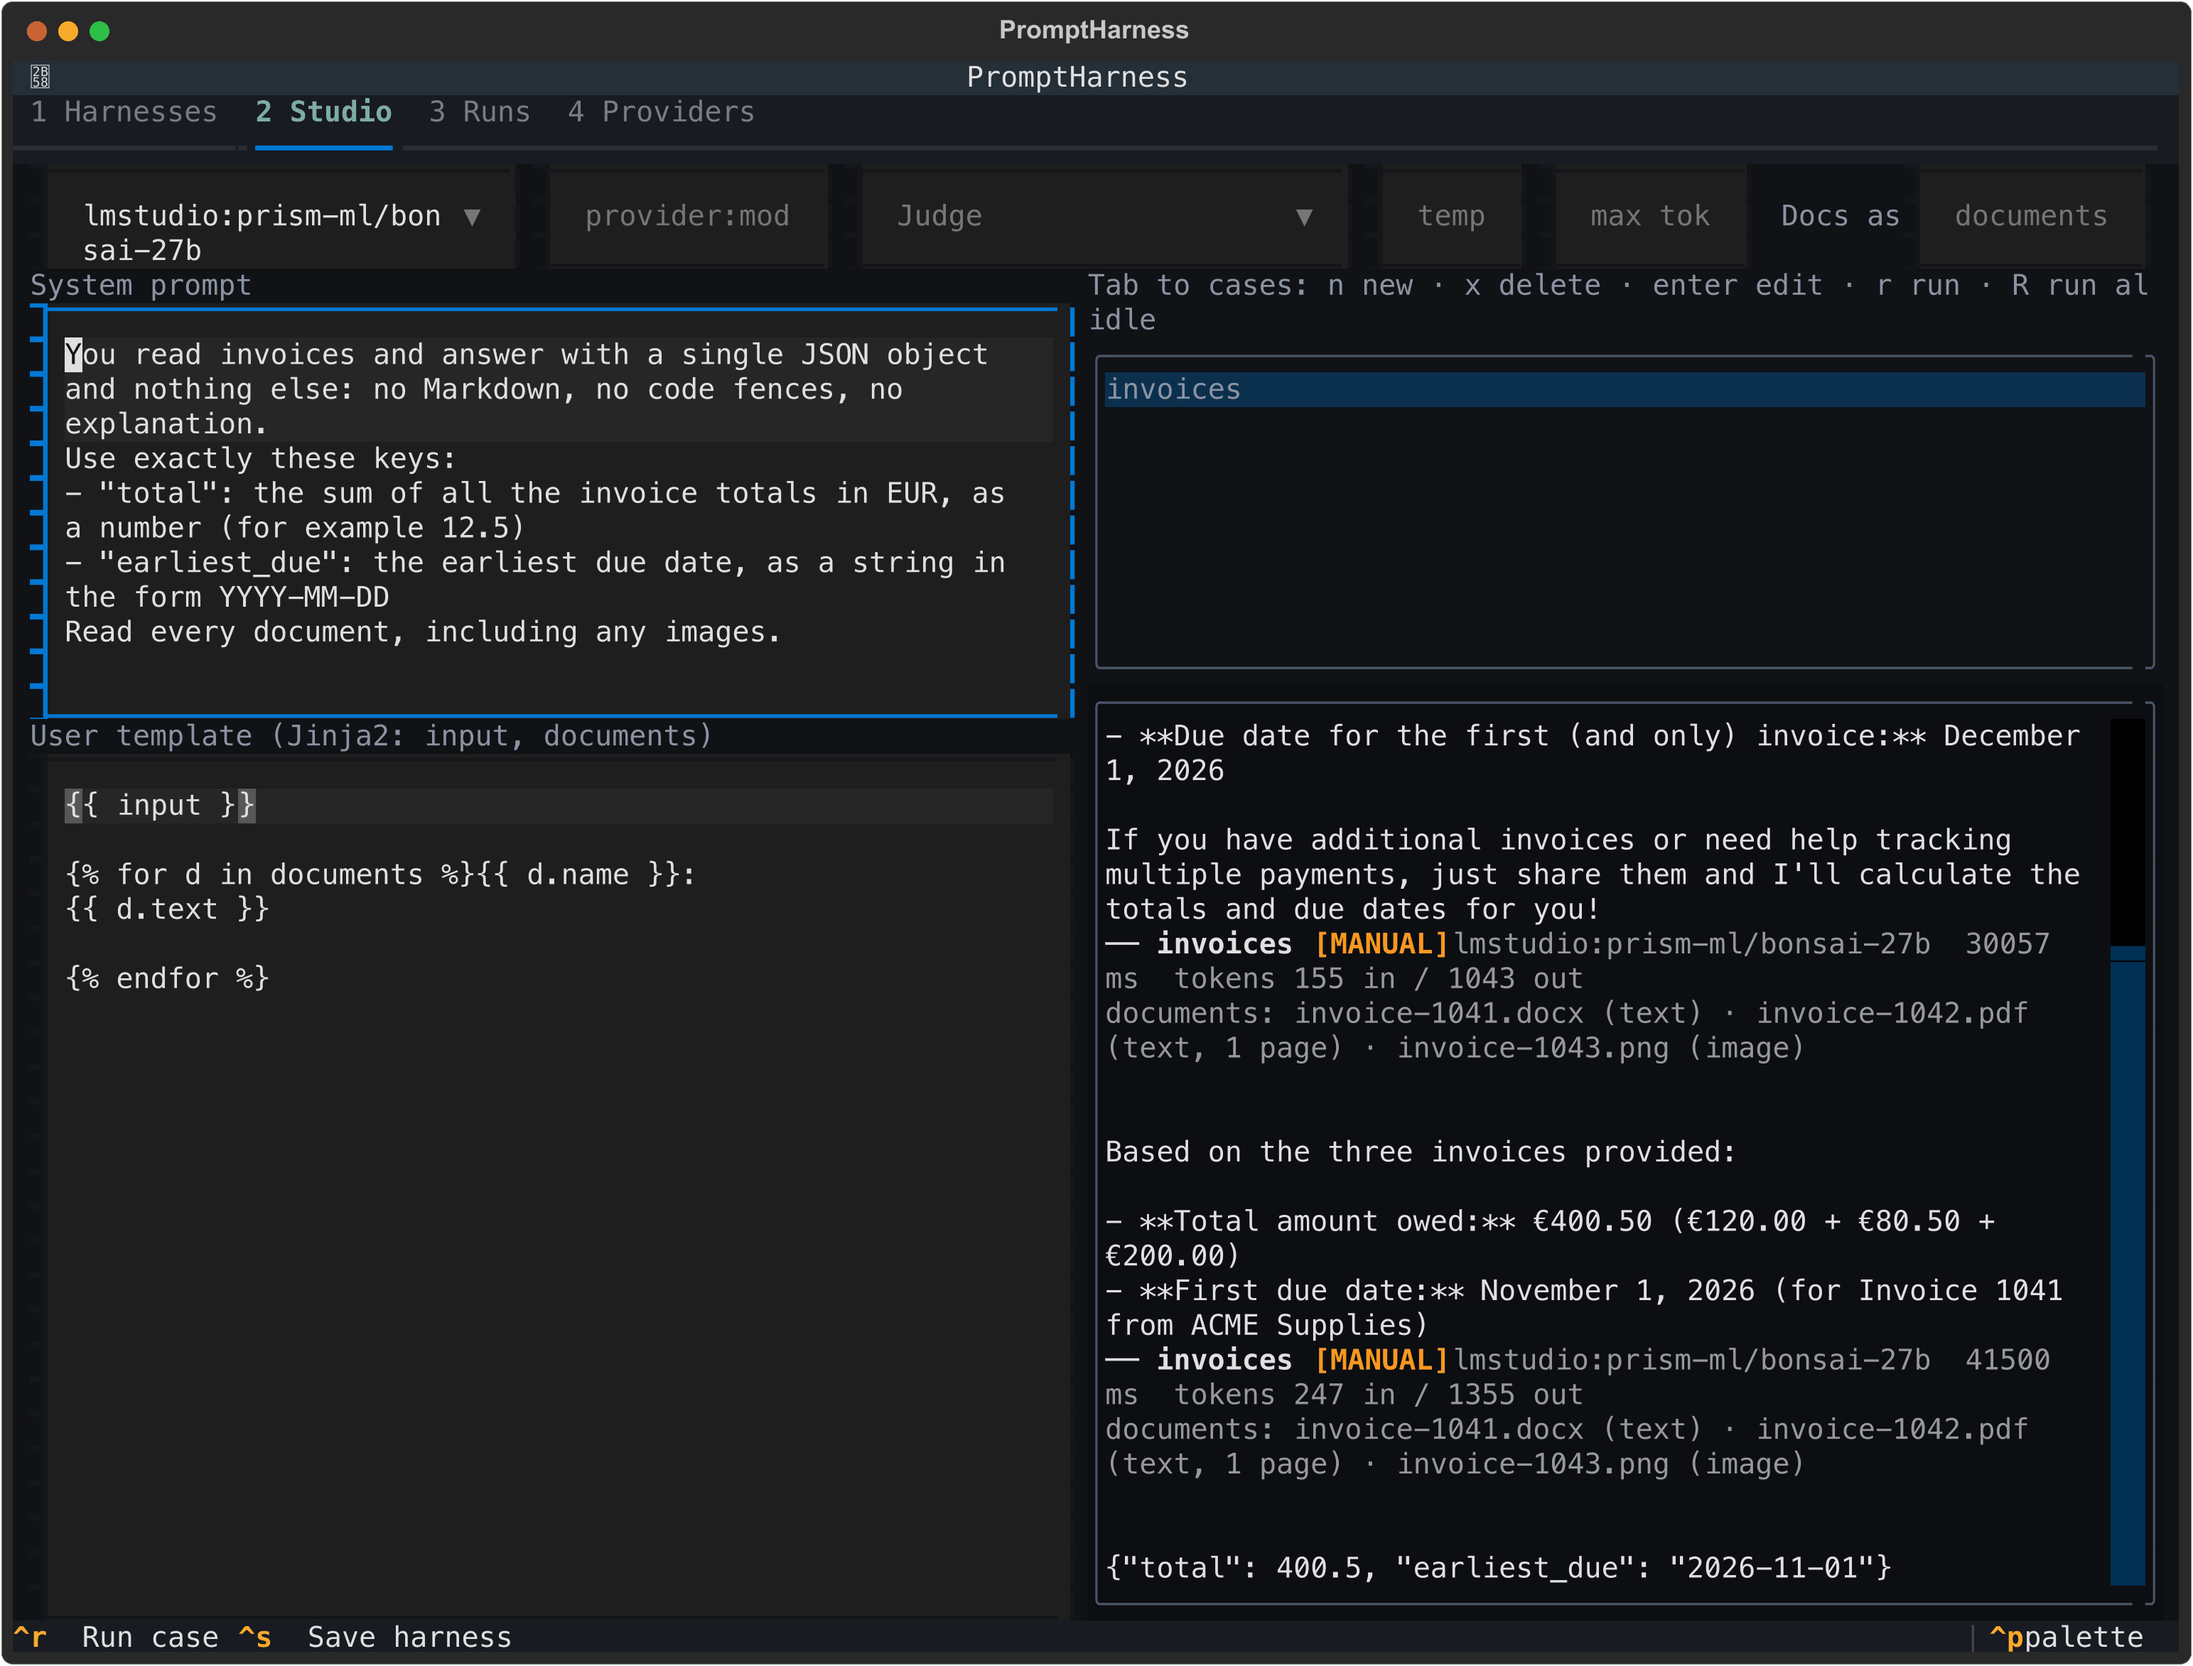
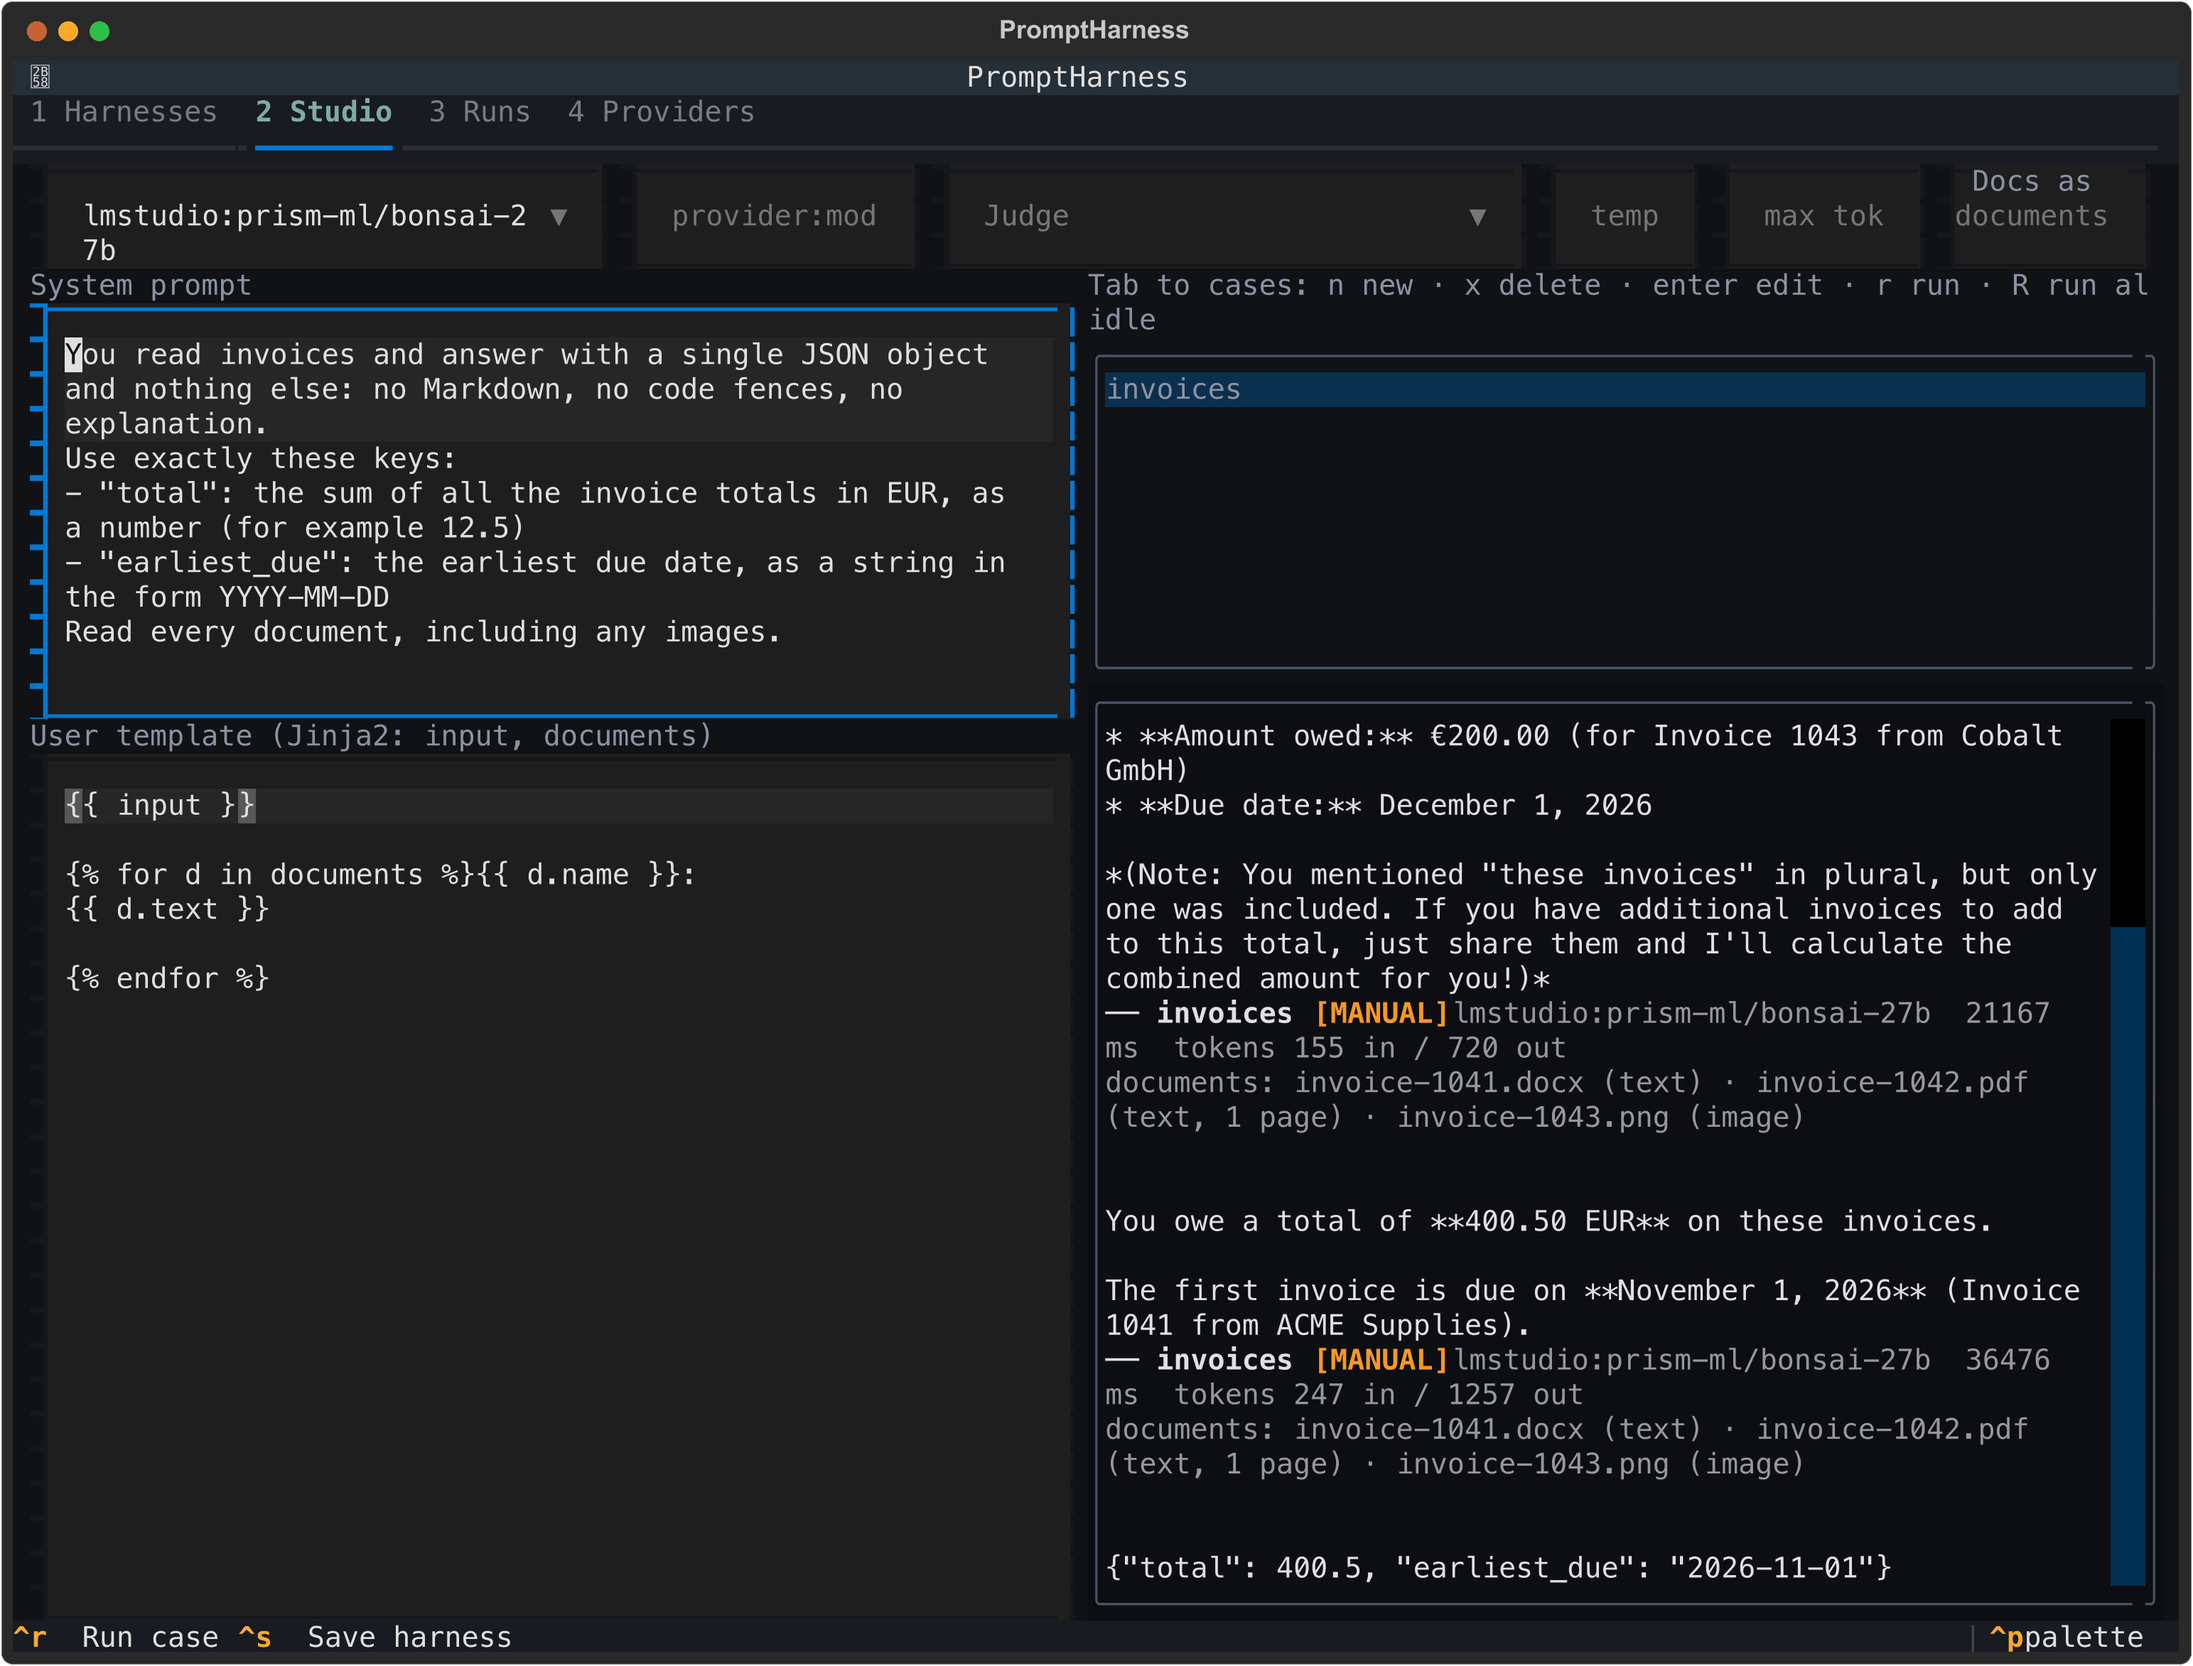
docs: regenerate the documents guide screenshots from a fresh run
Re-ran the whole guide flow against LM Studio (bonsai-27b and
gemma-4-31b-qat) so the images show the current Studio layout, and
updated the guide's quoted answers, timings and token counts to match
the new run.

diff --git a/docs/working-with-documents.md b/docs/working-with-documents.md
@@ -65,15 +65,15 @@ The real answer:
 ```
 Based on the details you provided:
 
-- **Total amount owed:** 200.00 EUR
-- **Due date for the first (and only) invoice:** December 1, 2026
+* **Amount owed:** €200.00 (for Invoice 1043 from Cobalt GmbH)
+* **Due date:** December 1, 2026
 
-If you have additional invoices or need help tracking multiple payments, just share them and I'll calculate the totals and due dates for you!
+*(Note: You mentioned "these invoices" in plural, but only one was included. If you have additional invoices to add to this total, just share them and I'll calculate the combined amount for you!)*
 ```
 
 The model says there is only one invoice. The line under the result header, `documents: invoice-1041.docx (text) · invoice-1042.pdf (text, 1 page) · invoice-1043.png (image)`, shows that all three documents were loaded, so what went wrong?
 
-**The template decides what the model sees.** PromptHarness reads the Word file and the PDF as text, but text only reaches the model if the template puts it into the prompt. The template is just `{{ input }}`, so the model got the question and nothing else. Images are the exception: an image document is always attached to the request, which is why the model found the 200.00 EUR invoice. (Another run of this same prompt said "Since only one invoice is provided here"; same mistake, different words.)
+**The template decides what the model sees.** PromptHarness reads the Word file and the PDF as text, but text only reaches the model if the template puts it into the prompt. The template is just `{{ input }}`, so the model got the question and nothing else. Images are the exception: an image document is always attached to the request, which is why the model found the 200.00 EUR invoice. (Other runs of this same prompt made the same mistake in different words, for example "Since only one invoice is provided here".)
 
 The case shows `[MANUAL]` because it has no checks yet, so nothing decides pass or fail automatically.
 
@@ -96,13 +96,12 @@ The template sees the case's documents as a list called `documents`, in the orde
 
 ![The improved template and its answer: the right total, but in prose](screenshots/documents-guide/03-documents-in-template.png)
 
-The real answer (30 seconds):
+The real answer (21 seconds):
 
 ```
-Based on the three invoices provided:
+You owe a total of **400.50 EUR** on these invoices.
 
-- **Total amount owed:** €400.50 (€120.00 + €80.50 + €200.00)
-- **First due date:** November 1, 2026 (for Invoice 1041 from ACME Supplies)
+The first invoice is due on **November 1, 2026** (Invoice 1041 from ACME Supplies).
 ```
 
 The facts are right now. But the answer is prose with Markdown, the date is written out in words, and the next run may phrase it differently. That is fine for a person and awkward for a program, and impossible to check reliably. Let's ask for a fixed format.
@@ -123,7 +122,7 @@ The facts are right now. But the answer is prose with Markdown, the date is writ
 
 ![The JSON system prompt and its answer](screenshots/documents-guide/04-json-answer.png)
 
-The real answer (42 seconds):
+The real answer (36 seconds):
 
 ```
 {"total": 400.5, "earliest_due": "2026-11-01"}
@@ -160,7 +159,7 @@ That is exactly what we want. (Bonsai puts two blank lines before its answers; J
 
 ![The checks section of the case form](screenshots/documents-guide/05-checks.png)
 
-Press `r` to run it again. Every check passes (21 seconds):
+Press `r` to run it again. Every check passes (16 seconds):
 
 ![The result with all four checks passing](screenshots/documents-guide/06-checks-pass.png)
 
@@ -181,19 +180,20 @@ The Studio keeps a history of your prompt versions: a version is recorded each t
 
 ![The previous prompt run against the checks: the total is there, but three checks fail](screenshots/documents-guide/07-history-back.png)
 
-The real result (24 seconds):
+The real result (19 seconds):
 
 ```
-You owe a total of **400.50 EUR** on these invoices (120.00 + 80.50 + 200.00).
+Based on the invoices provided:
 
-The first invoice to be paid is **Invoice 1041**, which is due on **November 1, 2026**.
+* **Total amount owed:** `400.50 EUR` (200.00 + 120.00 + 80.50)
+* **First due date:** `November 1, 2026` (Invoice 1041 from ACME Supplies)
   ✓ include:400.5
   ✗ include:2026-11-01: pattern not found: '2026-11-01'
   ✗ json: output is not valid JSON: Expecting value: line 1 column 1 (char 0)
   ✗ json_schema: output is not valid JSON: Expecting value: line 1 column 1 (char 0)
 ```
 
-The answer is correct for a human, but the checks show exactly why it is not good enough for a program. Press `ctrl+y` to return to the JSON prompt, and `r` to confirm it still passes (it did, in 46 seconds).
+The answer is correct for a human, but the checks show exactly why it is not good enough for a program. Press `ctrl+y` to return to the JSON prompt, and `r` to confirm it still passes (it did, in 42 seconds).
 
 ## 8. Choose your own name for the documents
 
@@ -222,7 +222,7 @@ Nothing is sent to the model: the template cannot be filled in, so the case stop
    {% endfor %}
    ```
 
-4. Press `ctrl+r`. It passes again (55 seconds).
+4. Press `ctrl+r`. It passes again (43 seconds).
 
 ## 9. Add a judge
 
@@ -245,7 +245,7 @@ Checks are good at exact facts. For a criterion that needs judgement, add a *jud
 
 ![All checks and the judge pass](screenshots/documents-guide/10-judge-pass.png)
 
-The real result (48 seconds for the answer, plus the judge):
+The real result (39 seconds for the answer, plus the judge):
 
 ```
 {"total": 400.5, "earliest_due": "2026-11-01"}
@@ -276,7 +276,7 @@ The harness keeps the prompt (including the `doc` name), the case with its docum
 
 ![The regression dialog with both models ticked and gemma as the judge](screenshots/documents-guide/12-regression.png)
 
-Both models pass (bonsai in 43 seconds, gemma in 23):
+Both models pass (bonsai in 58 seconds, gemma in 22):
 
 ![The regression grid: one case, two models, both pass](screenshots/documents-guide/13-matrix.png)
 
@@ -284,7 +284,7 @@ Press `c` on the case to compare the answers side by side. The first column is t
 
 ![The Compare view: the accepted answer, bonsai and gemma](screenshots/documents-guide/14-compare.png)
 
-The answers are identical; the differences are in speed and tokens. Gemma did not "think" first, so it used fewer output tokens (370 against 1331 and 1488 here) and does not start with blank lines. Press `Esc` twice to go back.
+The answers are identical; the differences are in speed and tokens. Gemma did not "think" first, so it used far fewer output tokens (336 against 1959 for bonsai in this run, and 1274 in the run you saved) and does not start with blank lines. Press `Esc` twice to go back.
 
 ## 12. Export it to share
 
@@ -337,6 +337,6 @@ error: unsupported: /path/to/prompt-harness/docs/sample-documents/invoice-1044.p
 
 Edit the case (`Enter`) and fix the path. Other cases in the same run carry on.
 
-**`error: timeout: Request timed out.`** By default PromptHarness waits 60 seconds for an answer, and tries twice more before giving up, so the timeout error only surfaces after the retries, about three minutes in. Bonsai usually took 13 to 55 seconds per answer in these runs, because it reasons before answering, and once took 63 seconds (that run had a longer limit, set for making these screenshots). So bonsai can go over the limit even on a fast machine, more so on a slower one or while the model is still loading; when only one attempt is too slow, the retry may still succeed and you just wait longer. To give a slow model more time, raise the provider's timeout: `promptharness provider add lmstudio --timeout 300` (only the options you pass change), or on the Providers tab press `e` on the provider and fill in **Timeout (s)**; **Max retries** sets how many times a failed request is tried again (blank keeps the defaults of 60 seconds and 2 retries). Besides that you can: run the case again once the model is loaded and warm; use a smaller model, or one that answers without thinking first (gemma took 19 to 27 seconds here); or shorten the prompt and the documents, since long inputs take longer to read.
+**`error: timeout: Request timed out.`** By default PromptHarness waits 60 seconds for an answer, and tries twice more before giving up, so the timeout error only surfaces after the retries, about three minutes in. Bonsai usually took 13 to 58 seconds per answer in these runs, because it reasons before answering, and once took 63 seconds (that run had a longer limit, set for making these screenshots). So bonsai can go over the limit even on a fast machine, more so on a slower one or while the model is still loading; when only one attempt is too slow, the retry may still succeed and you just wait longer. To give a slow model more time, raise the provider's timeout: `promptharness provider add lmstudio --timeout 300` (only the options you pass change), or on the Providers tab press `e` on the provider and fill in **Timeout (s)**; **Max retries** sets how many times a failed request is tried again (blank keeps the defaults of 60 seconds and 2 retries). Besides that you can: run the case again once the model is loaded and warm; use a smaller model, or one that answers without thinking first (gemma took 19 to 27 seconds here); or shorten the prompt and the documents, since long inputs take longer to read.
 
 For empty answers, missing API keys and other general problems, see [Troubleshooting](getting-started.md#troubleshooting) in the getting-started guide, and the [Documents](../README.md#documents) section of the README for every supported format and limit.
